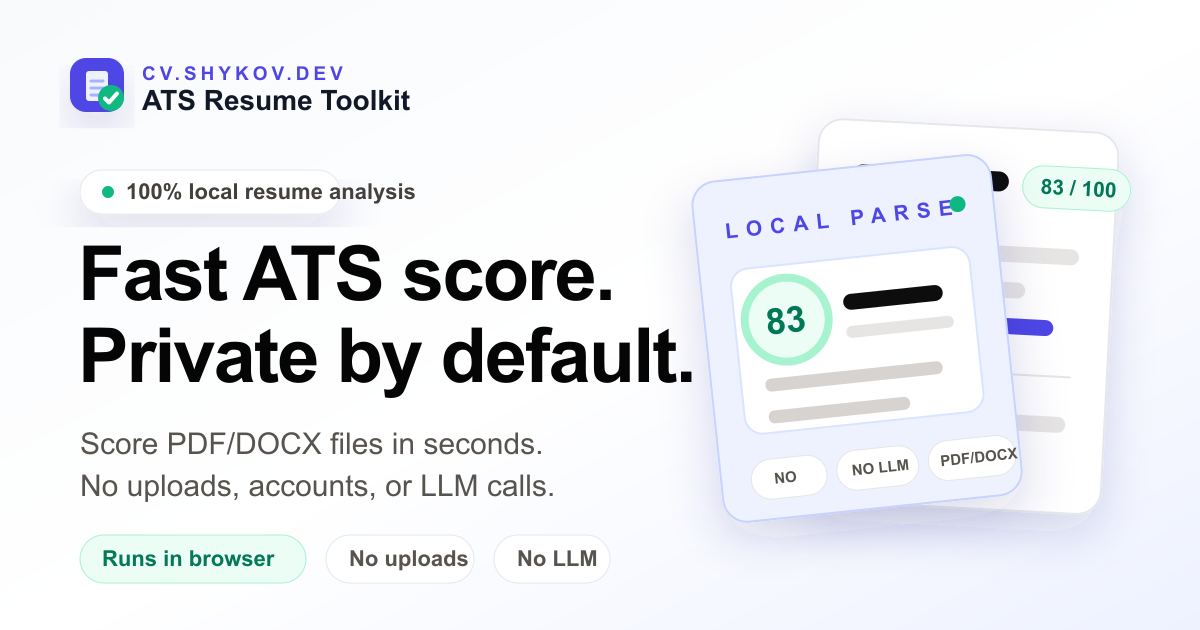
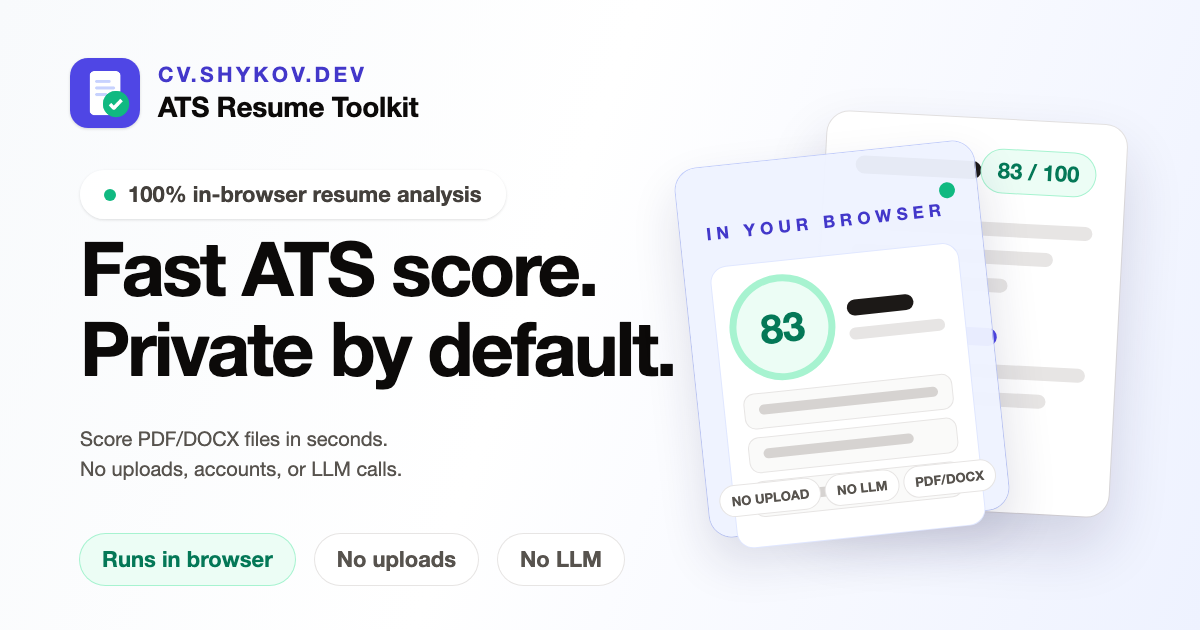
copy: say 'in your browser' instead of 'local' (6 languages, OG cards)
'Local' reads as 'regional' on a site that now has local-language versions, and
it does not say what is true: nothing is uploaded, everything runs in the
browser. Hero badge, social cards, card labels, step and trust titles.

diff --git a/src/i18n/messages/fr.ts b/src/i18n/messages/fr.ts
@@ -35,11 +35,11 @@ export const fr: Messages = {
   },
 
   og: {
-    badge: 'Analyse du CV 100% locale',
+    badge: 'Analyse du CV 100% dans le navigateur',
     headline: ['Score ATS en secondes.', 'Votre CV reste privé.'],
     sub: ['Analysez vos PDF/DOCX en secondes.', 'Sans envoi, sans compte, sans IA.'],
     chips: ['Dans le navigateur', 'Sans envoi', 'Sans IA'],
-    cardLabel: 'Analyse locale',
+    cardLabel: 'Dans le navigateur',
     cardChips: ['Sans envoi', 'Sans IA', 'PDF/DOCX'],
   },
 
@@ -57,7 +57,7 @@ export const fr: Messages = {
       githubAria: 'Code source ouvert sur GitHub',
     },
     hero: {
-      badge: 'Analyse du CV 100% locale',
+      badge: 'Analyse du CV 100% dans le navigateur',
       h1: 'Vérificateur de CV ATS gratuit : votre score, sans envoi du fichier',
       lead: 'Obtenez le score ATS de votre CV à partir d’un PDF ou d’un DOCX en quelques secondes, voyez d’abord les corrections les plus utiles, comparez les mots-clés d’une offre et créez un CV compatible ATS, sans envoi de fichier, sans compte et sans appel à une IA.',
       check: 'Analyser mon CV',
@@ -69,14 +69,14 @@ export const fr: Messages = {
       openSource: 'Code source ouvert',
     },
     heroCard: {
-      localParse: 'analyse locale',
+      localParse: 'dans le navigateur',
       noUpload: 'Sans envoi',
       noLlm: 'Sans IA',
       pdfDocx: 'PDF/DOCX',
     },
     heroMini: {
       aria: 'Aperçu du score ATS calculé en local',
-      localParse: 'Analyse locale',
+      localParse: 'Dans le navigateur',
       caption: 'Score, corrections prioritaires, mots-clés',
       categories: ['Lisibilité', 'Rubriques', 'Contenu'],
     },
@@ -84,7 +84,7 @@ export const fr: Messages = {
       aria: 'Comment fonctionne ce vérificateur de CV ATS local',
       steps: [
         { title: 'Choisissez un PDF/DOCX', body: 'Sélectionnez le fichier de votre CV sur votre appareil.' },
-        { title: 'Analyse en local', body: 'L’extraction du texte et le calcul du score se font dans ce navigateur.' },
+        { title: 'Analyse dans le navigateur', body: 'L’extraction du texte et le calcul du score se font dans ce navigateur.' },
         { title: 'Corrigez l’essentiel', body: 'Consultez le score, le détail, les mots-clés et des notes exportables.' },
       ],
       noServerUpload: 'Aucun envoi à un serveur',
@@ -100,7 +100,7 @@ export const fr: Messages = {
       heading: 'Des engagements de confidentialité que vous pouvez vérifier.',
       body: 'Le code est ouvert, sous licence MIT, et la promesse reste volontairement étroite : lecture des documents en local, score déterministe, aucun compte obligatoire, aucun modèle d’IA caché derrière l’interface.',
       cards: [
-        { title: 'Lecture en local', body: 'Le texte des PDF et DOCX est extrait dans le navigateur, avec des bibliothèques côté client.' },
+        { title: 'Lecture dans le navigateur', body: 'Le texte des PDF et DOCX est extrait dans le navigateur, avec des bibliothèques côté client.' },
         { title: 'Aucun score par IA', body: 'Les scores viennent de vérifications reproductibles : lisibilité, rubriques, format et contenu.' },
       ],
       repoTitle: 'Code source ouvert sur GitHub',

diff --git a/src/i18n/messages/es.ts b/src/i18n/messages/es.ts
@@ -34,11 +34,11 @@ export const es: Messages = {
   },
 
   og: {
-    badge: 'Análisis de CV 100% local',
+    badge: 'Análisis de CV 100% en tu navegador',
     headline: ['Puntuación ATS rápida.', 'Privado por defecto.'],
     sub: ['Puntúa archivos PDF/DOCX en segundos.', 'Sin subidas, cuentas ni llamadas a LLM.'],
     chips: ['En tu navegador', 'Sin subidas', 'Sin LLM'],
-    cardLabel: 'Análisis local',
+    cardLabel: 'En tu navegador',
     cardChips: ['Sin subida', 'Sin LLM', 'PDF/DOCX'],
   },
 
@@ -56,7 +56,7 @@ export const es: Messages = {
       githubAria: 'Código abierto en GitHub',
     },
     hero: {
-      badge: 'Análisis de CV 100% local',
+      badge: 'Análisis de CV 100% en tu navegador',
       h1: 'Revisar CV ATS gratis: comprueba tu puntuación ATS con total privacidad',
       lead: 'Consigue la puntuación ATS de tu CV a partir de un PDF o DOCX en segundos, ve primero las correcciones de mayor impacto, compara palabras clave y crea un CV compatible con ATS sin subir archivos, sin cuentas y sin llamadas a un LLM.',
       check: 'Revisar mi CV',
@@ -68,14 +68,14 @@ export const es: Messages = {
       openSource: 'Código abierto',
     },
     heroCard: {
-      localParse: 'análisis local',
+      localParse: 'en tu navegador',
       noUpload: 'Sin subida',
       noLlm: 'Sin LLM',
       pdfDocx: 'PDF/DOCX',
     },
     heroMini: {
       aria: 'Vista previa de la puntuación ATS local',
-      localParse: 'Análisis local',
+      localParse: 'En tu navegador',
       caption: 'Puntuación, correcciones principales y palabras clave',
       categories: ['Legibilidad', 'Secciones', 'Contenido'],
     },
@@ -83,7 +83,7 @@ export const es: Messages = {
       aria: 'Cómo funciona el comprobador de CV ATS local',
       steps: [
         { title: 'Elige un PDF/DOCX', body: 'Selecciona el archivo de tu CV en tu dispositivo.' },
-        { title: 'Análisis en local', body: 'La extracción del texto y la puntuación se ejecutan en este navegador.' },
+        { title: 'Análisis en tu navegador', body: 'La extracción del texto y la puntuación se ejecutan en este navegador.' },
         { title: 'Corrige lo principal', body: 'Verás la puntuación, el desglose, las palabras clave y notas que puedes exportar.' },
       ],
       noServerUpload: 'Sin subida a ningún servidor',
@@ -99,7 +99,7 @@ export const es: Messages = {
       heading: 'Privacidad que puedes comprobar.',
       body: 'El código es abierto con licencia MIT y la promesa del producto es acotada: lectura local de documentos, puntuación determinista, sin obligación de crear una cuenta y sin ningún modelo de IA escondido tras la interfaz.',
       cards: [
-        { title: 'Lectura local', body: 'El texto de los PDF y DOCX se extrae en el navegador con librerías que se ejecutan en tu dispositivo.' },
+        { title: 'Lectura en tu navegador', body: 'El texto de los PDF y DOCX se extrae en el navegador con librerías que se ejecutan en tu dispositivo.' },
         { title: 'Sin puntuación por LLM', body: 'La puntuación sale de comprobaciones repetibles de legibilidad, secciones, formato y contenido.' },
       ],
       repoTitle: 'Código abierto en GitHub',

diff --git a/src/i18n/messages/pt-br.ts b/src/i18n/messages/pt-br.ts
@@ -33,11 +33,11 @@ export const ptBR: Messages = {
   },
 
   og: {
-    badge: 'Análise de currículo 100% local',
+    badge: 'Análise de currículo 100% no navegador',
     headline: ['Pontuação ATS grátis.', 'Privada por padrão.'],
     sub: ['Pontue PDF/DOCX em segundos.', 'Sem envio, cadastro ou LLM.'],
     chips: ['Roda no navegador', 'Sem envio', 'Sem LLM'],
-    cardLabel: 'Leitura local',
+    cardLabel: 'No navegador',
     cardChips: ['Sem envio', 'Sem LLM', 'PDF/DOCX'],
   },
 
@@ -55,7 +55,7 @@ export const ptBR: Messages = {
       githubAria: 'Código aberto no GitHub',
     },
     hero: {
-      badge: 'Análise de currículo 100% local',
+      badge: 'Análise de currículo 100% no navegador',
       h1: 'Verificador de currículo ATS grátis. Privado por padrão.',
       lead: 'Veja a pontuação ATS do seu currículo a partir de um PDF ou DOCX em segundos, comece pelas correções de maior impacto, compare palavras-chave e crie um currículo compatível com ATS, sem enviar arquivo, sem cadastro e sem chamadas a LLM.',
       check: 'Verificar meu currículo',
@@ -67,14 +67,14 @@ export const ptBR: Messages = {
       openSource: 'Código aberto',
     },
     heroCard: {
-      localParse: 'leitura local',
+      localParse: 'no navegador',
       noUpload: 'Sem envio',
       noLlm: 'Sem LLM',
       pdfDocx: 'PDF/DOCX',
     },
     heroMini: {
       aria: 'Prévia da pontuação ATS local',
-      localParse: 'Leitura local',
+      localParse: 'No navegador',
       caption: 'Pontuação, principais correções, palavras-chave',
       categories: ['Legibilidade', 'Seções', 'Conteúdo'],
     },
@@ -82,7 +82,7 @@ export const ptBR: Messages = {
       aria: 'Como funciona o verificador de currículo ATS local',
       steps: [
         { title: 'Escolha o PDF/DOCX', body: 'Selecione um arquivo de currículo no seu dispositivo.' },
-        { title: 'Leitura local', body: 'A extração do texto e a pontuação rodam neste navegador.' },
+        { title: 'Leitura no navegador', body: 'A extração do texto e a pontuação rodam neste navegador.' },
         { title: 'Corrija os principais problemas', body: 'Veja pontuação, detalhamento, palavras-chave e notas para exportar.' },
       ],
       noServerUpload: 'Nada é enviado a servidor',
@@ -98,7 +98,7 @@ export const ptBR: Messages = {
       heading: 'Promessas de privacidade que você pode conferir.',
       body: 'O código é aberto, sob licença MIT, e a promessa do produto é estreita: leitura local do documento, pontuação determinística, sem cadastro obrigatório e sem nenhum modelo de IA escondido atrás da interface.',
       cards: [
-        { title: 'Leitor local', body: 'O texto de PDF e DOCX é extraído no navegador, com bibliotecas que rodam no próprio dispositivo.' },
+        { title: 'Leitor no navegador', body: 'O texto de PDF e DOCX é extraído no navegador, com bibliotecas que rodam no próprio dispositivo.' },
         { title: 'Pontuação sem LLM', body: 'As notas vêm de verificações repetíveis de legibilidade, seções, formato e conteúdo.' },
       ],
       repoTitle: 'Código aberto no GitHub',

diff --git a/src/i18n/messages/de.ts b/src/i18n/messages/de.ts
@@ -36,11 +36,11 @@ export const de: Messages = {
   },
 
   og: {
-    badge: '100 % lokale Lebenslauf-Analyse',
+    badge: '100 % Lebenslauf-Analyse im Browser',
     headline: ['Lebenslauf ATS Check.', 'Privat im Browser.'],
     sub: ['PDF/DOCX in Sekunden prüfen.', 'Kein Upload, kein Konto, keine KI.'],
     chips: ['Läuft im Browser', 'Kein Upload', 'Keine KI'],
-    cardLabel: 'Lokale Analyse',
+    cardLabel: 'Im Browser',
     cardChips: ['Kein Upload', 'Keine KI', 'PDF/DOCX'],
   },
 
@@ -58,7 +58,7 @@ export const de: Messages = {
       githubAria: 'Open Source auf GitHub',
     },
     hero: {
-      badge: '100 % lokale Lebenslauf-Analyse',
+      badge: '100 % Lebenslauf-Analyse im Browser',
       h1: 'Lebenslauf ATS Check kostenlos. Privat im Browser.',
       lead: 'ATS Lebenslauf prüfen: Sie erhalten den ATS-Score Ihres Lebenslaufs aus einer PDF- oder DOCX-Datei in Sekunden, sehen die wirksamsten Korrekturen zuerst, gleichen Keywords ab und erstellen einen ATS-tauglichen Lebenslauf – ohne Upload, Konto oder LLM-Aufrufe.',
       check: 'Lebenslauf prüfen',
@@ -70,14 +70,14 @@ export const de: Messages = {
       openSource: 'Open Source',
     },
     heroCard: {
-      localParse: 'lokale Analyse',
+      localParse: 'im Browser',
       noUpload: 'Kein Upload',
       noLlm: 'Keine KI',
       pdfDocx: 'PDF/DOCX',
     },
     heroMini: {
       aria: 'Vorschau der lokalen ATS-Bewertung',
-      localParse: 'Lokale Analyse',
+      localParse: 'Im Browser',
       caption: 'Score, wichtigste Korrekturen, Keyword-Signale',
       categories: ['Lesbarkeit', 'Abschnitte', 'Inhalt'],
     },
@@ -85,7 +85,7 @@ export const de: Messages = {
       aria: 'So funktioniert der lokale ATS-Check für den Lebenslauf',
       steps: [
         { title: 'PDF/DOCX auswählen', body: 'Wählen Sie eine Lebenslaufdatei von Ihrem Gerät aus.' },
-        { title: 'Lokal auslesen', body: 'Textextraktion und Bewertung laufen in diesem Browser.' },
+        { title: 'Im Browser auslesen', body: 'Textextraktion und Bewertung laufen in diesem Browser.' },
         { title: 'Wichtigste Probleme beheben', body: 'Sehen Sie Score, Aufschlüsselung, Keywords und exportierbare Hinweise.' },
       ],
       noServerUpload: 'Kein Upload auf einen Server',
@@ -101,7 +101,7 @@ export const de: Messages = {
       heading: 'Datenschutzversprechen zum Nachprüfen.',
       body: 'Der Code ist Open Source unter der MIT-Lizenz, und das Produktversprechen bleibt eng gefasst: lokale Verarbeitung der Dokumente, deterministische Bewertung, kein Kontozwang und kein KI-Modell, das sich hinter der Oberfläche versteckt.',
       cards: [
-        { title: 'Lokaler Parser', body: 'Der Text aus PDF und DOCX wird im Browser mit clientseitigen Bibliotheken extrahiert.' },
+        { title: 'Parser im Browser', body: 'Der Text aus PDF und DOCX wird im Browser mit clientseitigen Bibliotheken extrahiert.' },
         { title: 'Keine LLM-Bewertung', body: 'Der Score entsteht aus wiederholbaren Prüfungen zu Lesbarkeit, Abschnitten, Format und Inhaltssignalen.' },
       ],
       repoTitle: 'Open Source auf GitHub',

diff --git a/src/i18n/messages/pt-pt.ts b/src/i18n/messages/pt-pt.ts
@@ -35,11 +35,11 @@ export const ptPT: Messages = {
   },
 
   og: {
-    badge: 'Análise de CV 100% local',
+    badge: 'Análise de CV 100% no navegador',
     headline: ['Pontuação ATS rápida.', 'Privado por defeito.'],
     sub: ['Pontue ficheiros PDF/DOCX em segundos.', 'Sem carregamentos, contas nem LLM.'],
     chips: ['Corre no navegador', 'Sem carregar', 'Sem LLM'],
-    cardLabel: 'Leitura local',
+    cardLabel: 'No navegador',
     cardChips: ['Sem carregar', 'Sem LLM', 'PDF/DOCX'],
   },
 
@@ -57,7 +57,7 @@ export const ptPT: Messages = {
       githubAria: 'Código aberto no GitHub',
     },
     hero: {
-      badge: 'Análise de CV 100% local',
+      badge: 'Análise de CV 100% no navegador',
       h1: 'Verificador de CV ATS gratuito. Privado por defeito.',
       lead: 'Obtenha a pontuação ATS do seu CV a partir de um PDF ou DOCX em segundos, veja primeiro as correções de maior impacto, compare palavras-chave e crie um CV compatível com ATS, sem carregar ficheiros, sem contas e sem chamadas a LLM.',
       check: 'Verificar o meu CV',
@@ -69,14 +69,14 @@ export const ptPT: Messages = {
       openSource: 'Código aberto',
     },
     heroCard: {
-      localParse: 'leitura local',
+      localParse: 'no navegador',
       noUpload: 'Sem carregar',
       noLlm: 'Sem LLM',
       pdfDocx: 'PDF/DOCX',
     },
     heroMini: {
       aria: 'Pré-visualização da pontuação ATS local',
-      localParse: 'Leitura local',
+      localParse: 'No navegador',
       caption: 'Pontuação, principais correções, palavras-chave',
       categories: ['Legibilidade', 'Secções', 'Conteúdo'],
     },
@@ -84,7 +84,7 @@ export const ptPT: Messages = {
       aria: 'Como funciona o verificador de CV ATS local',
       steps: [
         { title: 'Escolha o PDF/DOCX', body: 'Selecione o ficheiro do CV no seu dispositivo.' },
-        { title: 'Leitura local', body: 'A extração do texto e a pontuação correm neste navegador.' },
+        { title: 'Leitura no navegador', body: 'A extração do texto e a pontuação correm neste navegador.' },
         { title: 'Corrija o mais importante', body: 'Veja a pontuação, o detalhe, as palavras-chave e notas exportáveis.' },
       ],
       noServerUpload: 'Sem envio para servidores',
@@ -100,7 +100,7 @@ export const ptPT: Messages = {
       heading: 'Promessas de privacidade que pode verificar.',
       body: 'O código é aberto, sob licença MIT, e a promessa do produto é curta: leitura local dos documentos, pontuação determinística, sem obrigação de criar conta e sem nenhum modelo de IA escondido por trás da interface.',
       cards: [
-        { title: 'Leitor local', body: 'O texto de PDF e DOCX é extraído no navegador, com bibliotecas do lado do cliente.' },
+        { title: 'Leitor no navegador', body: 'O texto de PDF e DOCX é extraído no navegador, com bibliotecas do lado do cliente.' },
         { title: 'Pontuação sem LLM', body: 'As pontuações vêm de verificações repetíveis de legibilidade, secções, formato e conteúdo.' },
       ],
       repoTitle: 'Código aberto no GitHub',

diff --git a/src/i18n/messages/en.ts b/src/i18n/messages/en.ts
@@ -45,11 +45,11 @@ export const en = {
 
   // Text drawn on the social-card image (scripts/og-images.mjs).
   og: {
-    badge: '100% local resume analysis',
+    badge: '100% in-browser resume analysis',
     headline: ['Fast ATS score.', 'Private by default.'],
     sub: ['Score PDF/DOCX files in seconds.', 'No uploads, accounts, or LLM calls.'],
     chips: ['Runs in browser', 'No uploads', 'No LLM'],
-    cardLabel: 'Local parse',
+    cardLabel: 'In your browser',
     cardChips: ['No upload', 'No LLM', 'PDF/DOCX'],
   },
 
@@ -68,7 +68,7 @@ export const en = {
       githubAria: 'Open source on GitHub',
     },
     hero: {
-      badge: '100% local resume analysis',
+      badge: '100% in-browser resume analysis',
       h1: 'Free CV ATS score checker. Private by default.',
       lead: 'Get your CV ATS score from a PDF or DOCX in seconds, see the highest-impact fixes first, match keywords, and build an ATS-clean resume without uploads, accounts, or LLM calls.',
       check: 'Check my resume',
@@ -80,14 +80,14 @@ export const en = {
       openSource: 'Open source',
     },
     heroCard: {
-      localParse: 'local parse',
+      localParse: 'in your browser',
       noUpload: 'No upload',
       noLlm: 'No LLM',
       pdfDocx: 'PDF/DOCX',
     },
     heroMini: {
       aria: 'Preview of local ATS scoring',
-      localParse: 'Local parse',
+      localParse: 'In your browser',
       caption: 'Score, top fixes, keyword signals',
       categories: ['Parseability', 'Sections', 'Content'],
     },
@@ -95,7 +95,7 @@ export const en = {
       aria: 'How the local ATS resume checker works',
       steps: [
         { title: 'Choose PDF/DOCX', body: 'Pick a resume file from your device.' },
-        { title: 'Parse locally', body: 'Text extraction and scoring run in this browser.' },
+        { title: 'Parse in your browser', body: 'Text extraction and scoring run in this browser.' },
         { title: 'Fix the top issues', body: 'See score, breakdown, keywords, and exportable notes.' },
       ],
       noServerUpload: 'No server upload',
@@ -111,7 +111,7 @@ export const en = {
       heading: 'Privacy claims you can inspect.',
       body: 'The code is open source under the MIT license, and the product promise stays narrow: local document parsing, deterministic scoring, no account wall, and no AI model call hidden behind the interface.',
       cards: [
-        { title: 'Local parser', body: 'PDF and DOCX text is extracted in the browser with client-side libraries.' },
+        { title: 'Browser-side parser', body: 'PDF and DOCX text is extracted in the browser with client-side libraries.' },
         { title: 'No LLM scoring', body: 'Scores come from repeatable checks for parseability, sections, format, and content signals.' },
       ],
       repoTitle: 'Open source on GitHub',
